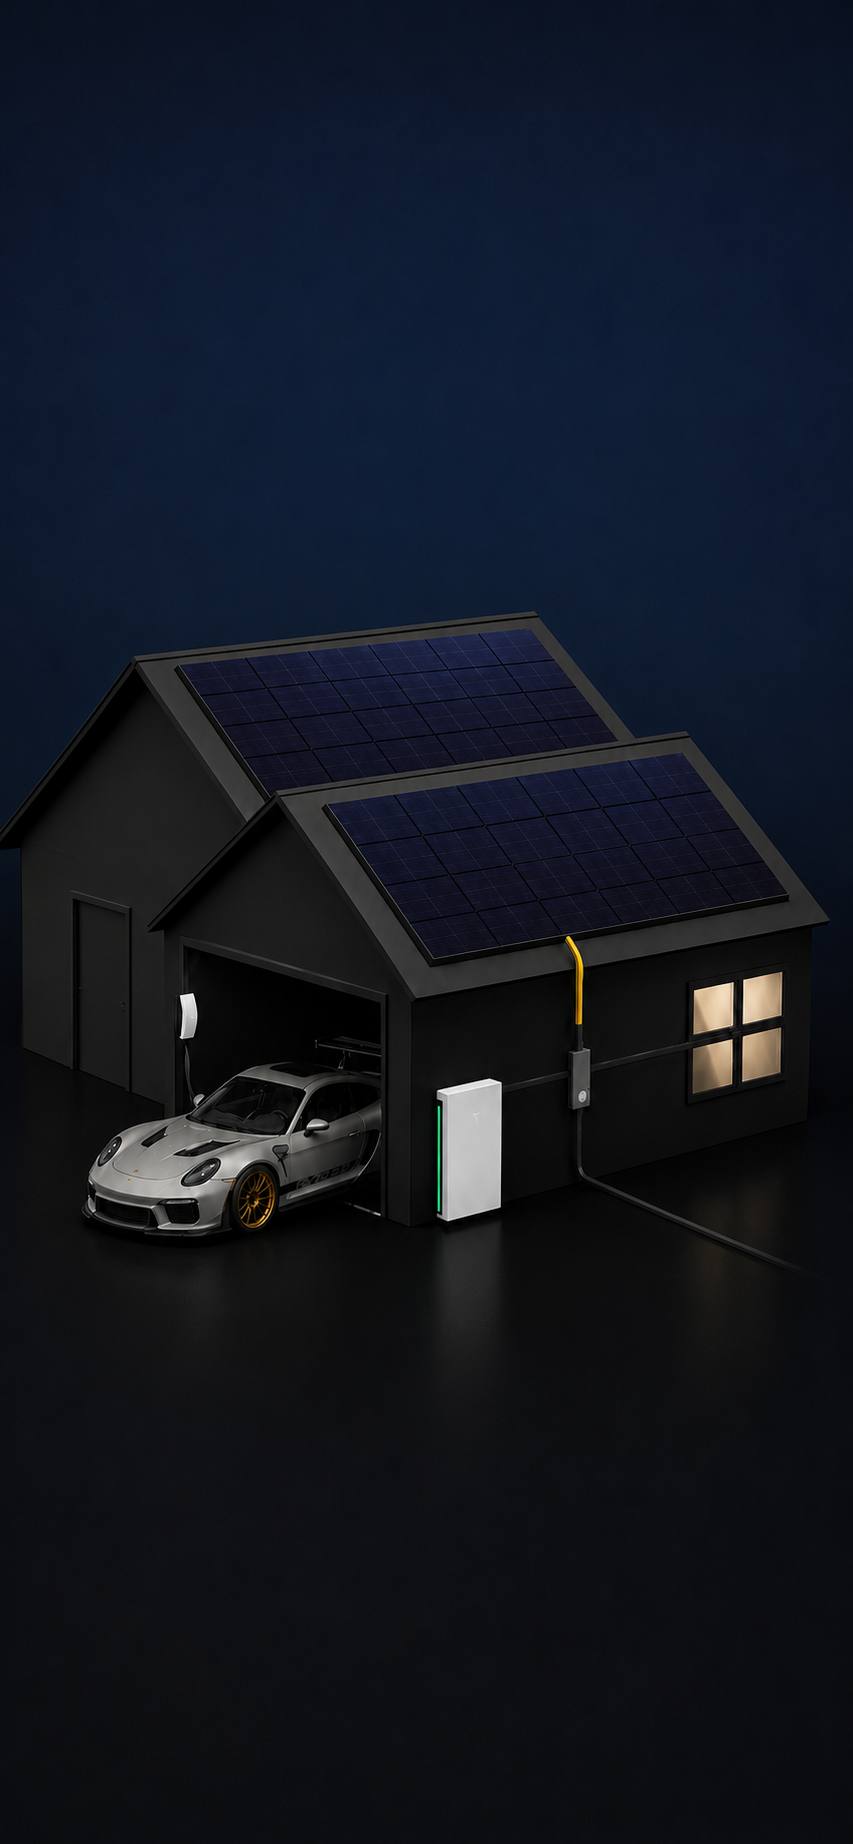
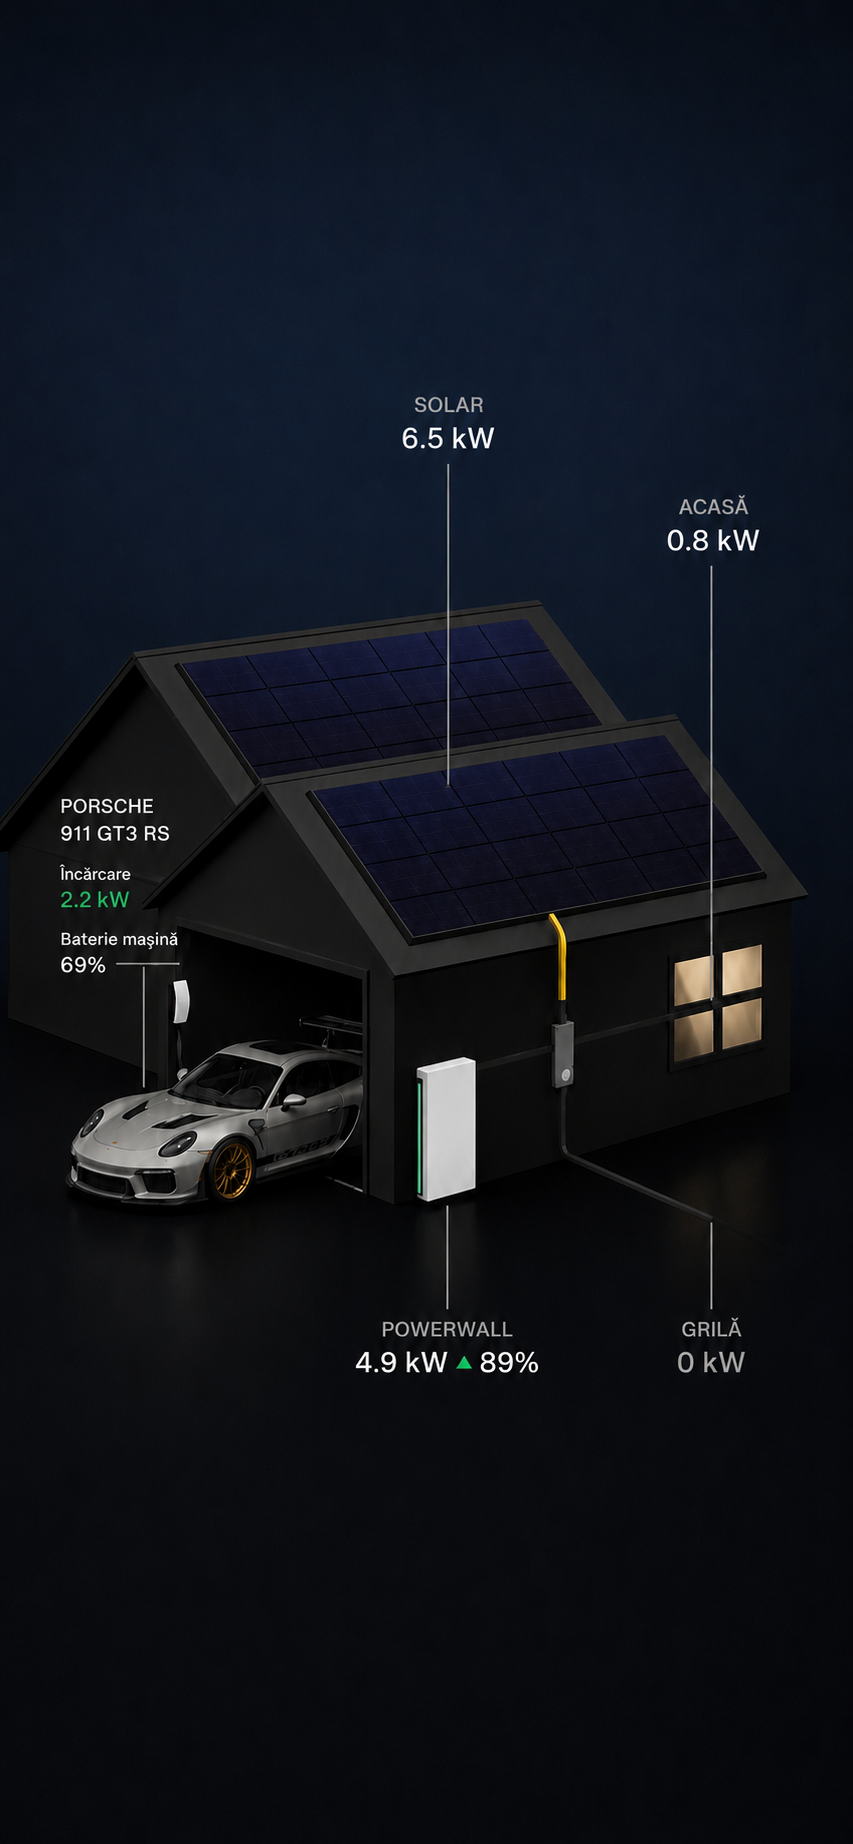
Energy Live: hybrid render — reference image base + live numbers overlay
Make the /twin/energy Live tab pixel-identical to the reference render
while keeping the readings live. Instead of redrawing the labels, lines
and font in HTML (which can never exactly match the baked render), use
the reference image itself as the base so the text size, positions and
leader lines are identical by construction, then:

- mask only the baked numeric values with clean-plate "windows"
  (estate-clean.png sampled via CSS container queries — containerType:size
  + 100cqw/100cqh offsets so each patch stays aligned at any size), and
- redraw just the live numbers on top in the system font (SF Pro stack)
  exactly over the masked values (Solar, Acasă, Powerwall kW + %,
  Porsche charge + car battery %, grid).

Adds public/estate-clean.png (clean plate) and sets public/estate-live.png
to the reference render.

Claude-Session: https://claude.ai/code/session_015qGhhAgxwQWdVBqYXKqVjw

diff --git a/app/twin/energy/page.tsx b/app/twin/energy/page.tsx
@@ -19,17 +19,11 @@ type Tab = (typeof TABS)[number];
 // Starts at the render's values, then drifts live.
 const START: EnergyState = { solar: 6.5, home: 0.8, vehicle: 2.2, battery: 4.9, grid: 0, batteryPct: 89 };
 
-// Full render is 853×1844; text sits at lx/ly (% of image). Each leader line is
-// drawn from an explicit start (just outside the text) to an end on the house —
-// measured off the reference. ls/le are [x%, y%].
-const IMG_W = 853, IMG_H = 1844;
-const NODES = [
-  { id: "solar", title: "SOLAR", lx: 52.5, ly: 23, ls: [52.5, 25.2], le: [52.5, 33], align: "center" as const },
-  { id: "home", title: "ACASĂ", lx: 83.6, ly: 28.4, ls: [83.4, 30.6], le: [83.3, 38.7], align: "center" as const },
-  { id: "vehicle", title: "PORSCHE 911 GT3 RS", lx: 6, ly: 48.5, ls: [22, 54], le: [30, 58], align: "left" as const },
-  { id: "battery", title: "POWERWALL", lx: 52.3, ly: 72, ls: [51.5, 71], le: [51.5, 64.5], align: "center" as const },
-  { id: "grid", title: "GRILĂ", lx: 83.5, ly: 73, ls: [86.3, 71.5], le: [86.3, 66], align: "center" as const },
-];
+// Hybrid clone: the reference render (text + lines + font baked in) is the base;
+// only the numeric values are masked out (with a clean-plate "window") and
+// redrawn live. VALUES below define each value's mask rect and text center (% of
+// the 853×1844 image), measured from the reference.
+const GREEN = "#4ADE80";
 
 export default function EnergyPage() {
   const [tab, setTab] = useState<Tab>("Live");
@@ -78,51 +72,40 @@ function LiveTab({ onGoTab }: { onGoTab: (t: Tab) => void }) {
     return () => clearInterval(id);
   }, []);
 
-  const sh = "0 1px 1px rgba(0,0,0,0.55)";
-  // Match the render's system font (SF Pro on iOS) instead of the app font.
+  // System font (SF Pro on iOS) to match the render's baked text.
   const ff = '-apple-system, BlinkMacSystemFont, "SF Pro Display", "Helvetica Neue", Helvetica, Arial, sans-serif';
-  const title: React.CSSProperties = { fontFamily: ff, fontSize: 7.5, letterSpacing: 0.4, color: "#9aa6b2", fontWeight: 500, textShadow: sh, lineHeight: 1.4 };
-  const val: React.CSSProperties = { fontFamily: ff, fontSize: 13, fontWeight: 600, color: "#fff", textShadow: sh, lineHeight: 1.3 };
-  const name: React.CSSProperties = { ...val, fontSize: 11 };
-  const green = "#4ADE80";
 
-  const content = (id: string) => {
-    if (id === "solar") return (<><div style={title}>SOLAR</div><div style={val}>{kw(s.solar)}</div></>);
-    if (id === "home") return (<><div style={title}>ACASĂ</div><div style={val}>{kw(s.home)}</div></>);
-    if (id === "battery") return (<><div style={title}>POWERWALL</div><div style={val}>{kw(s.battery)} <span style={{ color: green }}>▲</span> {Math.round(s.batteryPct)}%</div></>);
-    if (id === "grid") return (<><div style={title}>GRILĂ</div><div style={val}>{Math.round(Math.abs(s.grid))} kW</div></>);
-    // vehicle (Porsche)
-    return (
-      <>
-        <div style={name}>PORSCHE</div>
-        <div style={name}>911 GT3 RS</div>
-        <div style={{ ...title, marginTop: 6 }}>Încărcare</div>
-        <div style={{ ...val, color: green }}>{kw(s.vehicle)}</div>
-        <div style={{ ...title, marginTop: 6 }}>Baterie mașină</div>
-        <div style={val}>{Math.round(carPct)}%</div>
-      </>
-    );
-  };
+  // Each value: mask rect [l,t,w,h] (% of image) and text center [x,y] (%).
+  const VALUES: { id: string; rect: [number, number, number, number]; c: [number, number]; align: "center" | "left"; fs: number; node: React.ReactNode }[] = [
+    { id: "solar", rect: [45.5, 22.6, 13.5, 2.2], c: [52.46, 23.76], align: "center", fs: 3.6, node: <>{kw(s.solar)}</> },
+    { id: "home", rect: [77.2, 28.3, 13, 2.1], c: [83.65, 29.26], align: "center", fs: 3.6, node: <>{kw(s.home)}</> },
+    { id: "battery", rect: [40.5, 71.7, 23.5, 3.2], c: [52.34, 73.3], align: "center", fs: 3.6, node: <>{kw(s.battery)} <span style={{ color: GREEN }}>▲</span> {Math.round(s.batteryPct)}%</> },
+    { id: "grid", rect: [78.5, 72.9, 10, 2.1], c: [83.47, 73.83], align: "center", fs: 3.6, node: <>{Math.round(Math.abs(s.grid))} kW</> },
+    { id: "vch", rect: [0.5, 47.8, 14, 2.3], c: [1.8, 48.9], align: "left", fs: 3.4, node: <span style={{ color: GREEN }}>{kw(s.vehicle)}</span> },
+    { id: "vb", rect: [0.5, 54, 10, 2.3], c: [1.8, 55.1], align: "left", fs: 3.4, node: <>{Math.round(carPct)}%</> },
+  ];
 
   return (
     <div>
-      {/* Exact clone of the estate render — only the readings are live */}
+      {/* Hybrid: reference render as base; only the values are masked + redrawn live */}
       <div className="px-4 mb-3">
-        <div className="relative w-full rounded-3xl overflow-hidden" style={{ aspectRatio: "853 / 1844", border: "1px solid rgba(255,255,255,0.08)", background: "#0a0e16" }}>
+        <div className="relative w-full rounded-3xl overflow-hidden" style={{ aspectRatio: "853 / 1844", border: "1px solid rgba(255,255,255,0.08)", background: "#0a0e16", containerType: "size" }}>
+          {/* base: reference render (text, lines, font all baked in) */}
           {/* eslint-disable-next-line @next/next/no-img-element */}
-          <img src="/estate-live.png" alt="PRVIO Estate — energy" className="absolute inset-0 w-full h-full" style={{ objectFit: "cover", objectPosition: "center" }} draggable={false} />
+          <img src="/estate-live.png" alt="PRVIO Estate — energy" className="absolute inset-0 w-full h-full" style={{ objectFit: "cover" }} draggable={false} />
 
-          {/* leader lines — explicit start (outside text) → end (on house) */}
-          <svg viewBox={`0 0 ${IMG_W} ${IMG_H}`} className="absolute inset-0 w-full h-full" preserveAspectRatio="none">
-            {NODES.map((n) => (
-              <line key={n.id} x1={(n.ls[0] / 100) * IMG_W} y1={(n.ls[1] / 100) * IMG_H} x2={(n.le[0] / 100) * IMG_W} y2={(n.le[1] / 100) * IMG_H} stroke="rgba(255,255,255,0.32)" strokeWidth={1.2} />
-            ))}
-          </svg>
+          {/* mask each baked value with a clean-plate window */}
+          {VALUES.map((v) => (
+            <div key={v.id + "m"} style={{ position: "absolute", left: `${v.rect[0]}%`, top: `${v.rect[1]}%`, width: `${v.rect[2]}%`, height: `${v.rect[3]}%`, overflow: "hidden" }}>
+              {/* eslint-disable-next-line @next/next/no-img-element */}
+              <img src="/estate-clean.png" alt="" draggable={false} style={{ position: "absolute", width: "100cqw", height: "100cqh", left: `${-v.rect[0]}cqw`, top: `${-v.rect[1]}cqh`, maxWidth: "none" }} />
+            </div>
+          ))}
 
-          {/* live labels — exact positions from the reference */}
-          {NODES.map((n) => (
-            <div key={n.id} className="absolute" style={{ left: `${n.lx}%`, top: `${n.ly}%`, transform: `translate(${n.align === "left" ? "0" : "-50%"}, -50%)`, textAlign: n.align === "left" ? "left" : "center", whiteSpace: "nowrap", zIndex: 2 }}>
-              {content(n.id)}
+          {/* live values redrawn on top */}
+          {VALUES.map((v) => (
+            <div key={v.id + "t"} style={{ position: "absolute", left: `${v.c[0]}%`, top: `${v.c[1]}%`, transform: `translate(${v.align === "left" ? "0" : "-50%"}, -50%)`, fontFamily: ff, fontWeight: 600, fontSize: `${v.fs}cqw`, color: "#fff", whiteSpace: "nowrap", lineHeight: 1, zIndex: 2 }}>
+              {v.node}
             </div>
           ))}
         </div>